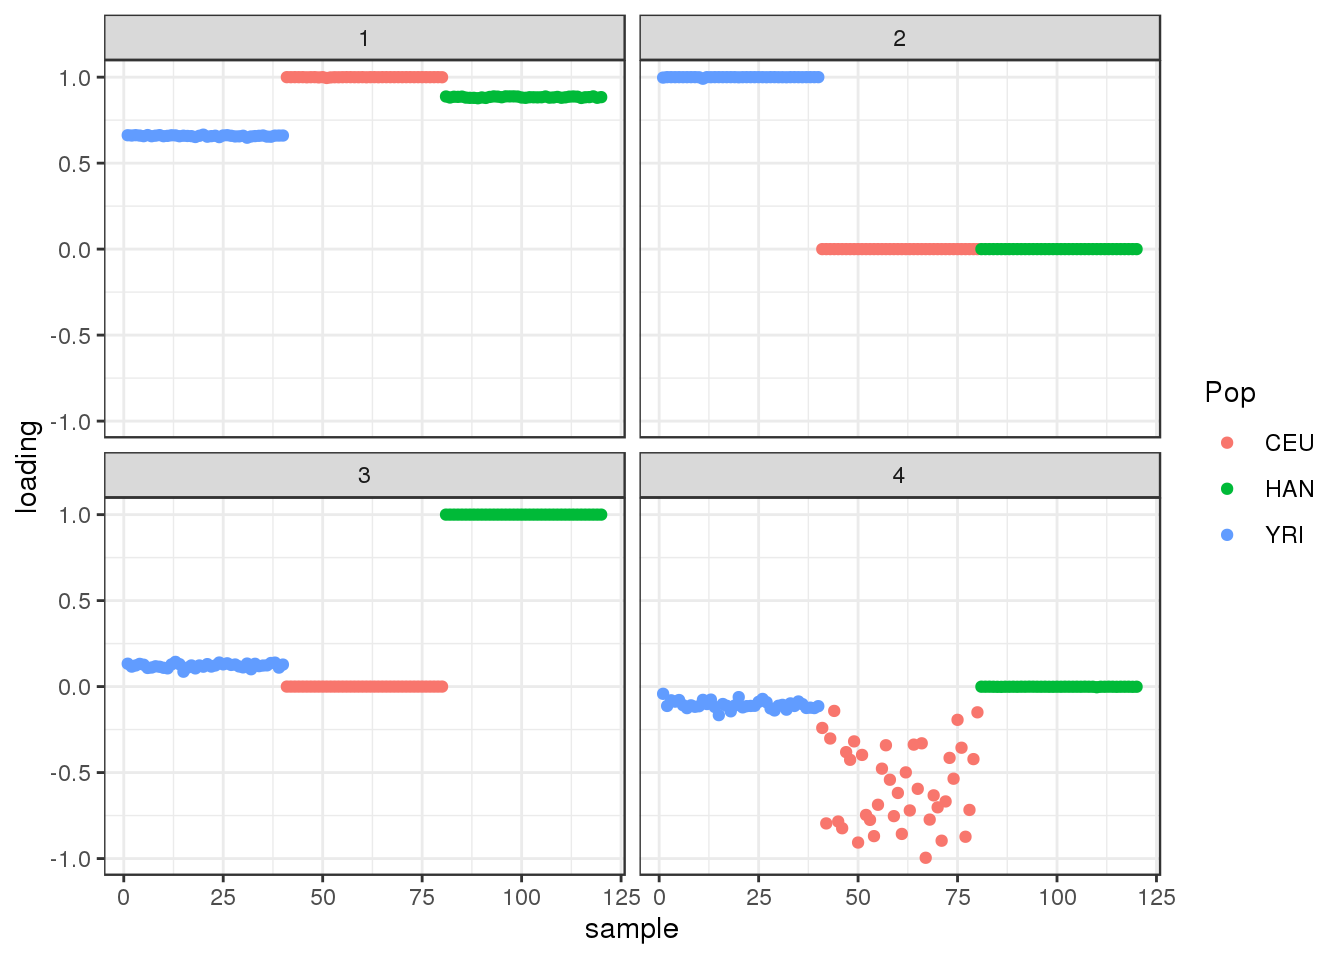
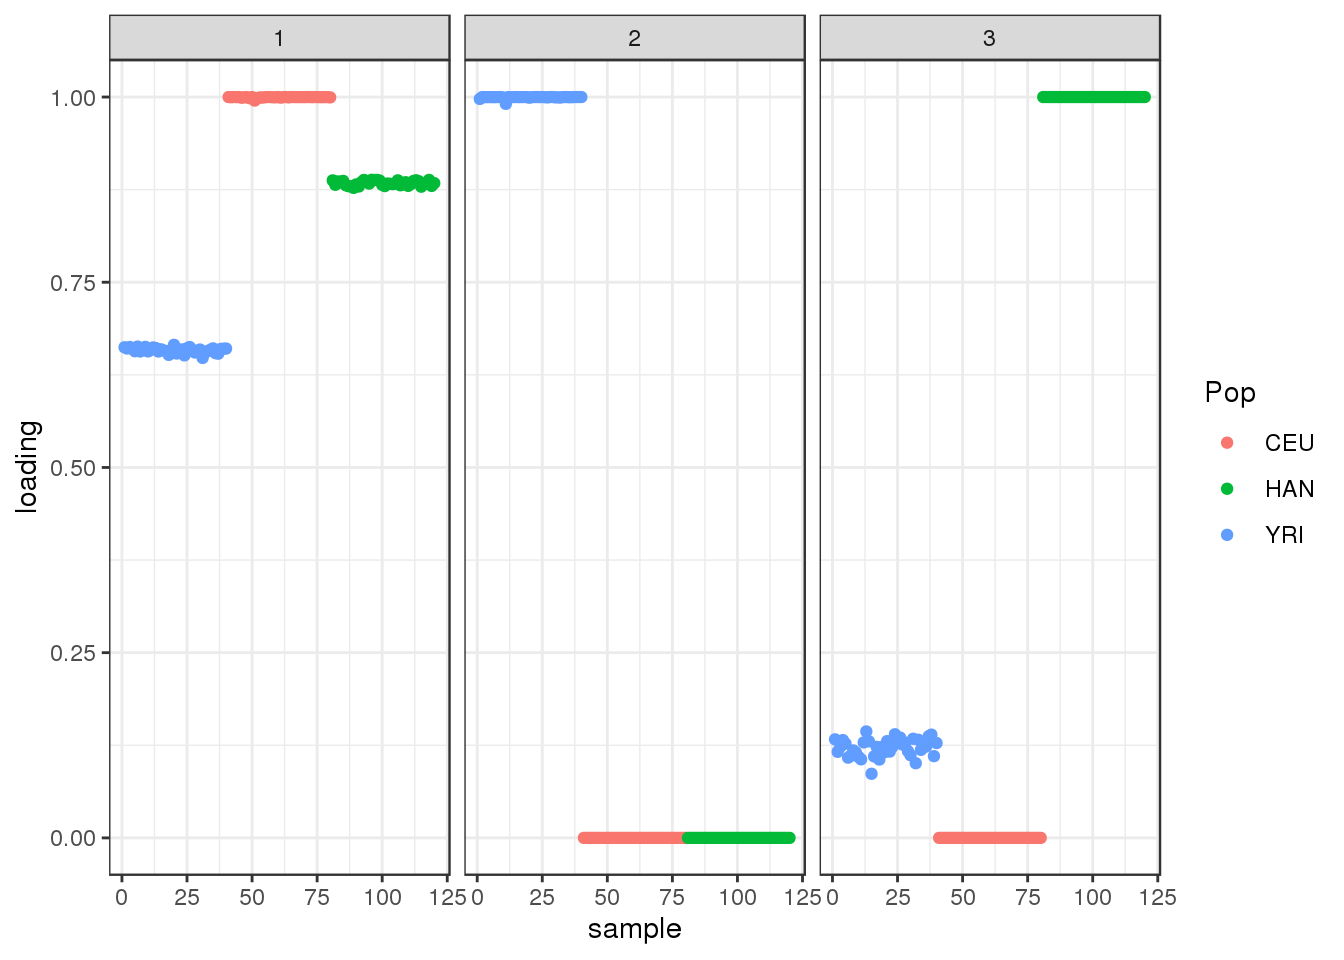
Build site.

diff --git a/docs/OutOfAfrica_3G09.html b/docs/OutOfAfrica_3G09.html
@@ -452,16 +452,16 @@ This reproducible <a href="http://rmarkdown.rstudio.com">R Markdown</a> analysis
 <div class="panel panel-default">
 <div class="panel-heading">
 <p class="panel-title">
-<a data-toggle="collapse" data-parent="#workflowr-checks" href="#strongRepositoryversionstrongahrefhttpsgithubcomjhmarcusdriftworkflowtreef62c96ca3f31987b590e420ba0a9285aabbacad3targetblankf62c96ca"> <span class="glyphicon glyphicon-ok text-success" aria-hidden="true"></span> <strong>Repository version:</strong> <a href="https://github.com/jhmarcus/drift-workflow/tree/f62c96ca3f31987b590e420ba0a9285aabbacad3" target="_blank">f62c96c</a> </a>
+<a data-toggle="collapse" data-parent="#workflowr-checks" href="#strongRepositoryversionstrongahrefhttpsgithubcomjhmarcusdriftworkflowtree1247ad05910c5da8aac266cddd6977e861db7d76targetblank1247ad0a"> <span class="glyphicon glyphicon-ok text-success" aria-hidden="true"></span> <strong>Repository version:</strong> <a href="https://github.com/jhmarcus/drift-workflow/tree/1247ad05910c5da8aac266cddd6977e861db7d76" target="_blank">1247ad0</a> </a>
 </p>
 </div>
[2 lines of base64/hex data omitted]
 <div class="panel-body">
 <p>
 Great! You are using Git for version control. Tracking code development and connecting the code version to the results is critical for reproducibility.
 </p>
 <p>
-The results in this page were generated with repository version <a href="https://github.com/jhmarcus/drift-workflow/tree/f62c96ca3f31987b590e420ba0a9285aabbacad3" target="_blank">f62c96c</a>. See the <em>Past versions</em> tab to see a history of the changes made to the R Markdown and HTML files.
+The results in this page were generated with repository version <a href="https://github.com/jhmarcus/drift-workflow/tree/1247ad05910c5da8aac266cddd6977e861db7d76" target="_blank">1247ad0</a>. See the <em>Past versions</em> tab to see a history of the changes made to the R Markdown and HTML files.
 </p>
 <p>
 Note that you need to be careful to ensure that all relevant files for the analysis have been committed to Git prior to generating the results (you can use <code>wflow_publish</code> or <code>wflow_git_commit</code>). workflowr only checks the R Markdown file, but you know if there are other scripts or data files that it depends on. Below is the status of the Git repository when the results were generated:
@@ -478,11 +478,8 @@ Ignored files:
     Ignored:    output/
     Ignored:    sandbox/.ipynb_checkpoints/
 
-Unstaged changes:
-    Modified:   analysis/hoa_global_drift_bimodal.Rmd
-    Modified:   analysis/hoa_global_greedy_bimodal.Rmd
-    Modified:   cluster.json
-    Modified:   snakefiles/coalsim/Snakefile
+Untracked files:
+    Untracked:  test.png
 
 </code></pre>
 <p>
@@ -521,6 +518,40 @@ Message
 </tr>
 </thead>
 <tbody>
+<tr>
+<td>
+Rmd
+</td>
+<td>
+<a href="https://github.com/jhmarcus/drift-workflow/blob/1247ad05910c5da8aac266cddd6977e861db7d76/analysis/OutOfAfrica_3G09.Rmd" target="_blank">1247ad0</a>
+</td>
+<td>
+Joseph Marcus
+</td>
+<td>
+2020-05-12
+</td>
+<td>
+wflow_publish(“OutOfAfrica_3G09.Rmd”)
+</td>
+</tr>
+<tr>
+<td>
+html
+</td>
+<td>
+<a href="https://rawcdn.githack.com/jhmarcus/drift-workflow/da3995d7fae4d664ba8a92587bcf2f03be90af54/docs/OutOfAfrica_3G09.html" target="_blank">da3995d</a>
+</td>
+<td>
+Joseph Marcus
+</td>
+<td>
+2020-05-12
+</td>
+<td>
+Build site.
+</td>
+</tr>
 <tr>
 <td>
 Rmd
@@ -579,7 +610,7 @@ switched from rpy2 to using Rscripts in snkmk
 </div>
 </div>
 </div>
-<p>Here I visualize population structure with simulated data from <a href="https://stdpopsim.readthedocs.io/en/latest/catalog.html#sec_catalog_homsap_models_outofafrica_3g09">OutOfAfrica_3G09</a> scenario.</p>
+<p>Here I visualize population structure with simulated data from <a href="https://stdpopsim.readthedocs.io/en/latest/catalog.html#sec_catalog_homsap_models_outofafrica_3g09">OutOfAfrica_3G09</a> scenario. See <a href="%5BFigure%202.%5D">https://journals.plos.org/plosgenetics/article?id=10.1371/journal.pgen.1000695</a> from Gutenkunst et al. 2009.</p>
 <div id="imports" class="section level1">
 <h1>Imports</h1>
 <p>Import the required libraries and scripts:</p>
@@ -618,12 +649,86 @@ labs &lt;- rep(c(&quot;YRI&quot;, &quot;CEU&quot;, &quot;HAN&quot;), each=40)</c
 L_hat &lt;- svd_res$u
 plot_loadings(L_hat, labs)</code></pre>
 <p><img src="figure/OutOfAfrica_3G09.Rmd/unnamed-chunk-3-1.png" width="672" style="display: block; margin: auto;" /></p>
+<p>
+<button type="button" class="btn btn-default btn-xs btn-workflowr btn-workflowr-fig" data-toggle="collapse" data-target="#fig-unnamed-chunk-3-1">
+Past versions of unnamed-chunk-3-1.png
+</button>
+</p>
+<div id="fig-unnamed-chunk-3-1" class="collapse">
+<div class="table-responsive">
+<table class="table table-condensed table-hover">
+<thead>
+<tr>
+<th>
+Version
+</th>
+<th>
+Author
+</th>
+<th>
+Date
+</th>
+</tr>
+</thead>
+<tbody>
+<tr>
+<td>
+<a href="https://github.com/jhmarcus/drift-workflow/blob/da3995d7fae4d664ba8a92587bcf2f03be90af54/docs/figure/OutOfAfrica_3G09.Rmd/unnamed-chunk-3-1.png" target="_blank">da3995d</a>
+</td>
+<td>
+Joseph Marcus
+</td>
+<td>
+2020-05-12
+</td>
+</tr>
+</tbody>
+</table>
+</div>
+</div>
 <p>Plot the first two factors against each other:</p>
 <pre class="r"><code>qplot(L_hat[,1], L_hat[,2], color=labs) + 
   xlab(&quot;PC1&quot;) + 
   ylab(&quot;PC2&quot;) + 
   theme_bw()</code></pre>
 <p><img src="figure/OutOfAfrica_3G09.Rmd/unnamed-chunk-4-1.png" width="672" style="display: block; margin: auto;" /></p>
+<p>
+<button type="button" class="btn btn-default btn-xs btn-workflowr btn-workflowr-fig" data-toggle="collapse" data-target="#fig-unnamed-chunk-4-1">
+Past versions of unnamed-chunk-4-1.png
+</button>
+</p>
+<div id="fig-unnamed-chunk-4-1" class="collapse">
+<div class="table-responsive">
+<table class="table table-condensed table-hover">
+<thead>
+<tr>
+<th>
+Version
+</th>
+<th>
+Author
+</th>
+<th>
+Date
+</th>
+</tr>
+</thead>
+<tbody>
+<tr>
+<td>
+<a href="https://github.com/jhmarcus/drift-workflow/blob/da3995d7fae4d664ba8a92587bcf2f03be90af54/docs/figure/OutOfAfrica_3G09.Rmd/unnamed-chunk-4-1.png" target="_blank">da3995d</a>
+</td>
+<td>
+Joseph Marcus
+</td>
+<td>
+2020-05-12
+</td>
+</tr>
+</tbody>
+</table>
+</div>
+</div>
 <p>We certainly detect “clustered” population structure in the top PCs where PC1 represents Out of Africa and PC2 represents the next split between CEU and HAN.</p>
 </div>
 <div id="alstructure" class="section level1">
@@ -633,6 +738,43 @@ plot_loadings(L_hat, labs)</code></pre>
 Qhat &lt;- t(admix_res$Q_hat)
 plot_loadings(Qhat, labs)</code></pre>
 <p><img src="figure/OutOfAfrica_3G09.Rmd/unnamed-chunk-5-1.png" width="672" style="display: block; margin: auto;" /></p>
+<p>
+<button type="button" class="btn btn-default btn-xs btn-workflowr btn-workflowr-fig" data-toggle="collapse" data-target="#fig-unnamed-chunk-5-1">
+Past versions of unnamed-chunk-5-1.png
+</button>
+</p>
+<div id="fig-unnamed-chunk-5-1" class="collapse">
+<div class="table-responsive">
+<table class="table table-condensed table-hover">
+<thead>
+<tr>
+<th>
+Version
+</th>
+<th>
+Author
+</th>
+<th>
+Date
+</th>
+</tr>
+</thead>
+<tbody>
+<tr>
+<td>
+<a href="https://github.com/jhmarcus/drift-workflow/blob/da3995d7fae4d664ba8a92587bcf2f03be90af54/docs/figure/OutOfAfrica_3G09.Rmd/unnamed-chunk-5-1.png" target="_blank">da3995d</a>
+</td>
+<td>
+Joseph Marcus
+</td>
+<td>
+2020-05-12
+</td>
+</tr>
+</tbody>
+</table>
+</div>
+</div>
 <p>the PSD model assigns three distinct clusters.</p>
 </div>
 <div id="flash-greedy" class="section level1">
@@ -654,22 +796,100 @@ Nullchecking 4 factors...
 Done.</code></pre>
 <pre class="r"><code>plot_loadings(fl$flash.fit$EF[[1]], labs)</code></pre>
 <p><img src="figure/OutOfAfrica_3G09.Rmd/unnamed-chunk-6-1.png" width="672" style="display: block; margin: auto;" /></p>
+<p>
+<button type="button" class="btn btn-default btn-xs btn-workflowr btn-workflowr-fig" data-toggle="collapse" data-target="#fig-unnamed-chunk-6-1">
+Past versions of unnamed-chunk-6-1.png
+</button>
+</p>
+<div id="fig-unnamed-chunk-6-1" class="collapse">
+<div class="table-responsive">
+<table class="table table-condensed table-hover">
+<thead>
+<tr>
+<th>
+Version
+</th>
+<th>
+Author
+</th>
+<th>
+Date
+</th>
+</tr>
+</thead>
+<tbody>
+<tr>
+<td>
+<a href="https://github.com/jhmarcus/drift-workflow/blob/da3995d7fae4d664ba8a92587bcf2f03be90af54/docs/figure/OutOfAfrica_3G09.Rmd/unnamed-chunk-6-1.png" target="_blank">da3995d</a>
+</td>
+<td>
+Joseph Marcus
+</td>
+<td>
+2020-05-12
+</td>
+</tr>
+</tbody>
+</table>
+</div>
+</div>
 <p>flash learns a shared factor between all the populations but where YRI has a lower loading then CEU and HAN and then it also learns population specific factors.</p>
 </div>
 <div id="flash-backfit" class="section level1">
 <h1>flash [backfit]</h1>
 <p>Run flash [backfit] initializing from the greedy solution:</p>
-<pre class="r"><code>flbf &lt;- fl %&gt;% flash.backfit()</code></pre>
+<pre class="r"><code>flbf &lt;- fl %&gt;% flash.backfit() %&gt;% flash.nullcheck(remove = TRUE)</code></pre>
 <pre><code>Backfitting 4 factors (tolerance: 5.33e-02)...
   Difference between iterations is within 1.0e+02...
   Difference between iterations is within 1.0e+01...
   Difference between iterations is within 1.0e+00...
   Difference between iterations is within 1.0e-01...
 Wrapping up...
+Done.
+Nullchecking 4 factors...
+Wrapping up...
 Done.</code></pre>
-<pre class="r"><code>plot_loadings(flbf$flash.fit$EF[[1]], labs)</code></pre>
+<pre class="r"><code>plot_loadings(flbf$flash.fit$EF[[1]], labs) + ggsave(&quot;../test.png&quot;)</code></pre>
+<pre><code>Saving 7 x 5 in image</code></pre>
 <p><img src="figure/OutOfAfrica_3G09.Rmd/unnamed-chunk-7-1.png" width="672" style="display: block; margin: auto;" /></p>
-<p>Hmm this odd that the 4th factor has negative values. Is this a bug with the bi-modal prior?</p>
+<p>
+<button type="button" class="btn btn-default btn-xs btn-workflowr btn-workflowr-fig" data-toggle="collapse" data-target="#fig-unnamed-chunk-7-1">
+Past versions of unnamed-chunk-7-1.png
+</button>
+</p>
+<div id="fig-unnamed-chunk-7-1" class="collapse">
+<div class="table-responsive">
+<table class="table table-condensed table-hover">
+<thead>
+<tr>
+<th>
+Version
+</th>
+<th>
+Author
+</th>
+<th>
+Date
+</th>
+</tr>
+</thead>
+<tbody>
+<tr>
+<td>
+<a href="https://github.com/jhmarcus/drift-workflow/blob/da3995d7fae4d664ba8a92587bcf2f03be90af54/docs/figure/OutOfAfrica_3G09.Rmd/unnamed-chunk-7-1.png" target="_blank">da3995d</a>
+</td>
+<td>
+Joseph Marcus
+</td>
+<td>
+2020-05-12
+</td>
+</tr>
+</tbody>
+</table>
+</div>
+</div>
+<p>the backfitting algorithm represents the data with a sparser solution.</p>
 </div>
 <div id="drift" class="section level1">
 <h1>drift</h1>
@@ -716,6 +936,43 @@ dr &lt;- drift(init, miniter=2, maxiter=500, tol = 0.01, verbose = TRUE)</code><
   38 :    -2864516.525 </code></pre>
 <pre class="r"><code>plot_loadings(dr$EL, labs)</code></pre>
 <p><img src="figure/OutOfAfrica_3G09.Rmd/unnamed-chunk-8-1.png" width="672" style="display: block; margin: auto;" /></p>
+<p>
+<button type="button" class="btn btn-default btn-xs btn-workflowr btn-workflowr-fig" data-toggle="collapse" data-target="#fig-unnamed-chunk-8-1">
+Past versions of unnamed-chunk-8-1.png
+</button>
+</p>
+<div id="fig-unnamed-chunk-8-1" class="collapse">
+<div class="table-responsive">
+<table class="table table-condensed table-hover">
+<thead>
+<tr>
+<th>
+Version
+</th>
+<th>
+Author
+</th>
+<th>
+Date
+</th>
+</tr>
+</thead>
+<tbody>
+<tr>
+<td>
+<a href="https://github.com/jhmarcus/drift-workflow/blob/da3995d7fae4d664ba8a92587bcf2f03be90af54/docs/figure/OutOfAfrica_3G09.Rmd/unnamed-chunk-8-1.png" target="_blank">da3995d</a>
+</td>
+<td>
+Joseph Marcus
+</td>
+<td>
+2020-05-12
+</td>
+</tr>
+</tbody>
+</table>
+</div>
+</div>
 <p>drift seems to maintain the greedy solution.</p>
 <br>
 <p>
